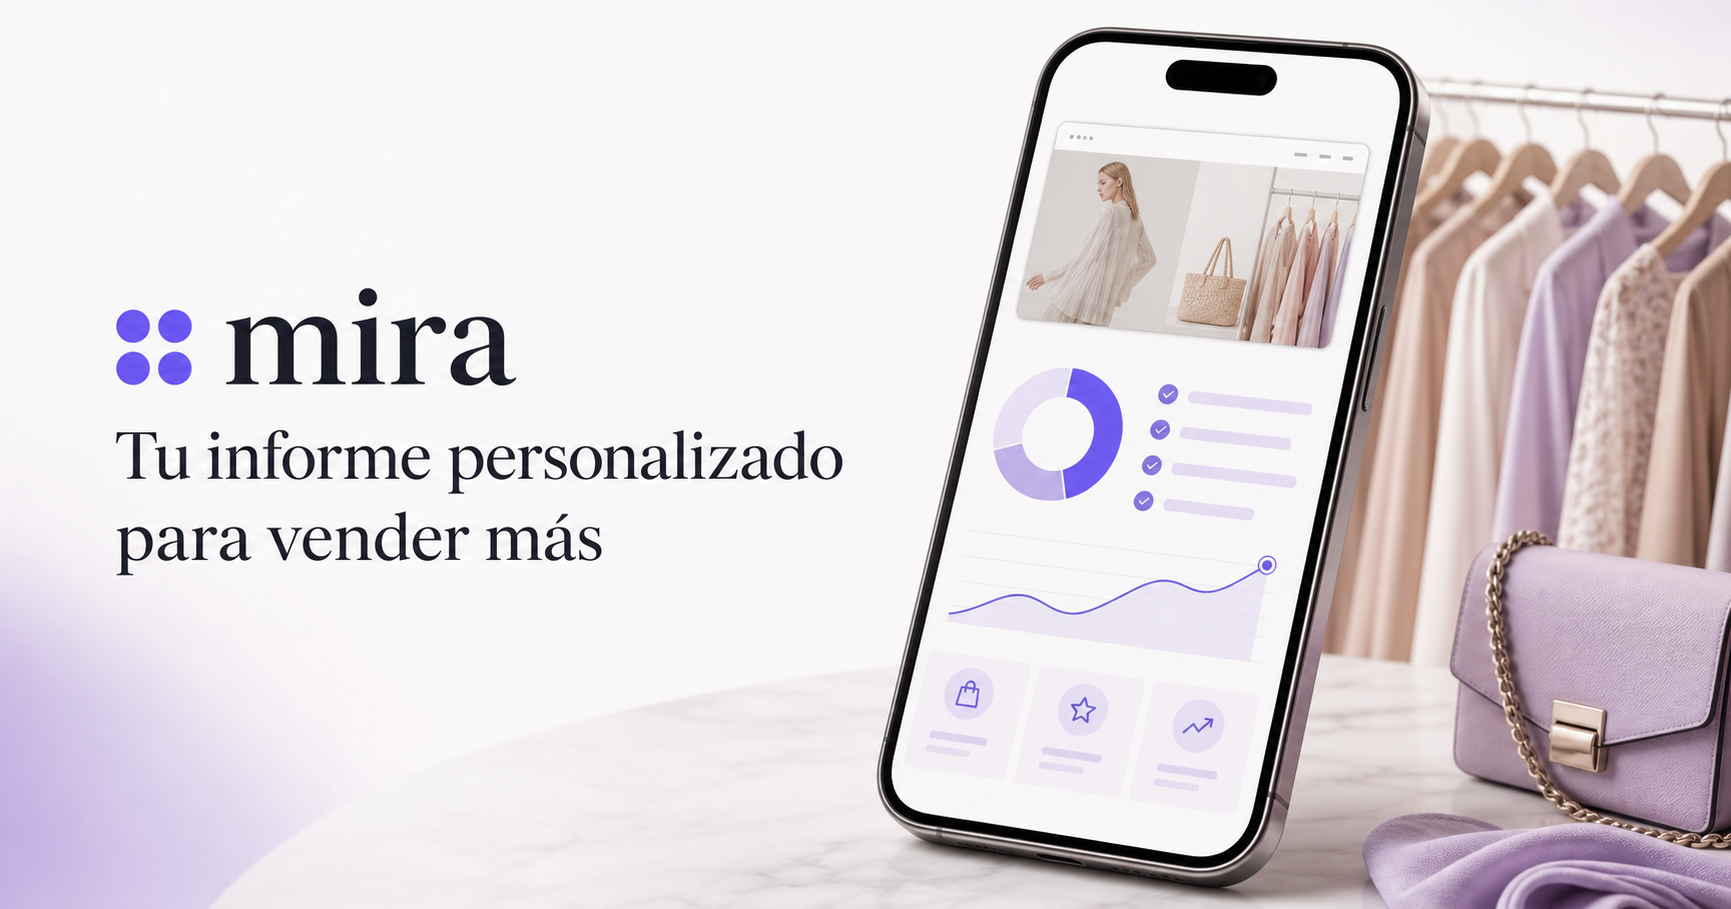
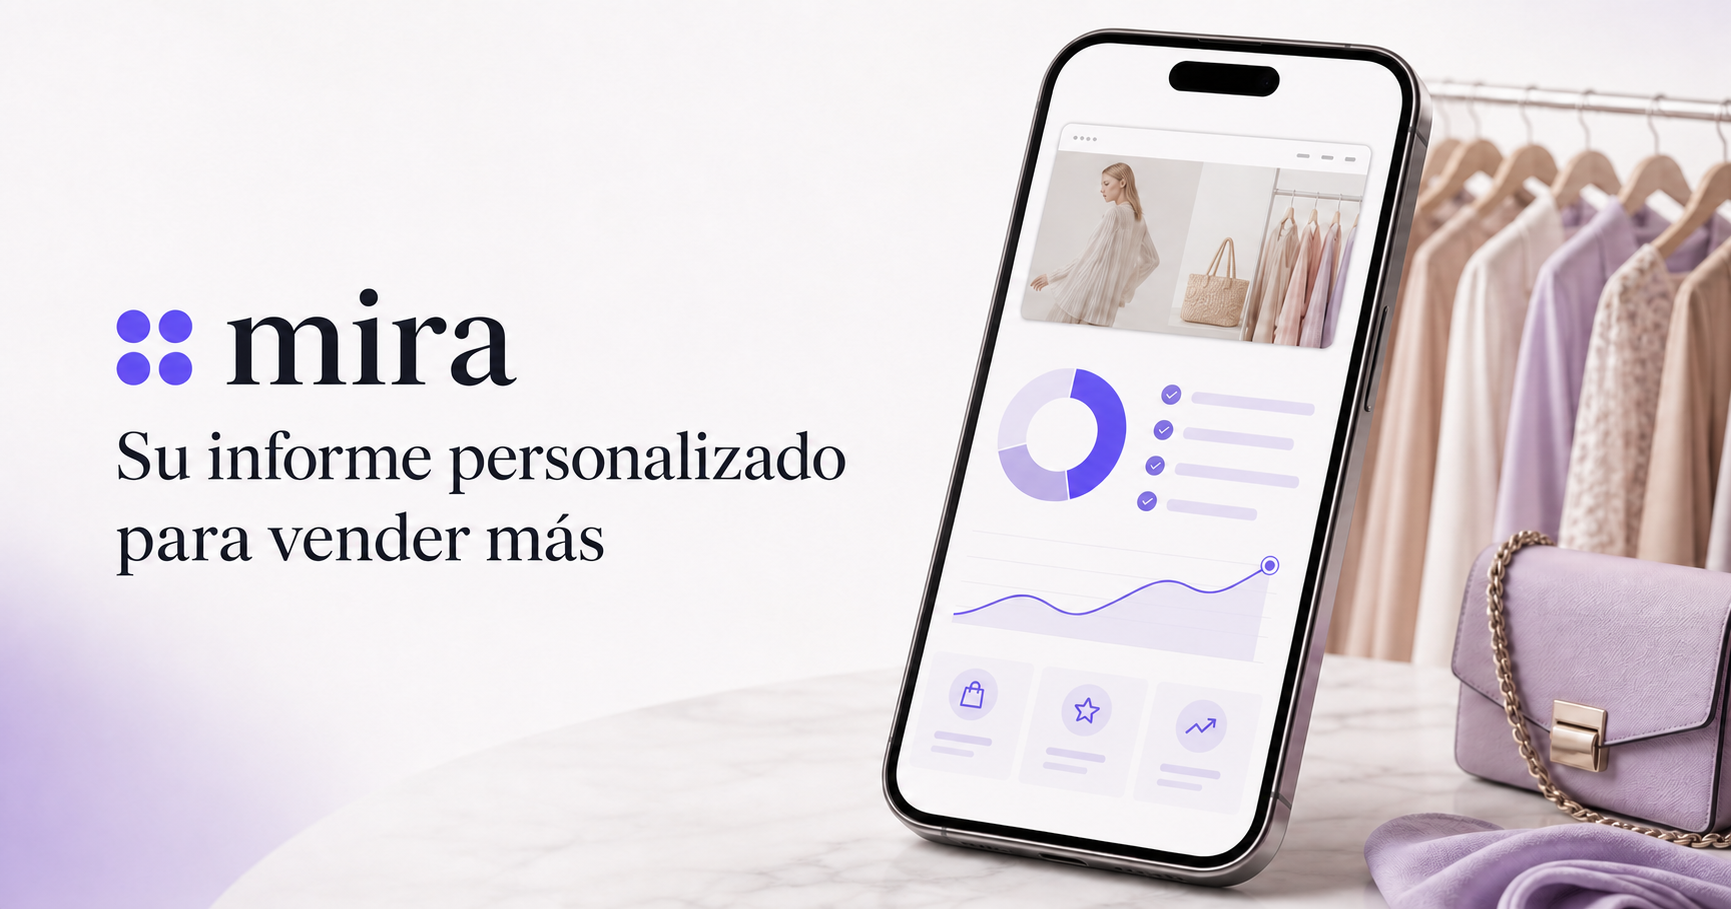
Usa tratamiento formal en la vista previa de Mira

diff --git a/packages/web/index.html b/packages/web/index.html
@@ -3,17 +3,17 @@
   <head>
     <meta charset="UTF-8" />
     <meta name="viewport" content="width=device-width, initial-scale=1.0" />
-    <title>Mira · Informe personalizado para vender más</title>
+    <title>Mira · Su informe personalizado para vender más</title>
     <meta
       name="description"
-      content="Hemos analizado tu web y preparado mejoras concretas para atraer más clientes y vender más."
+      content="Hemos analizado su web y preparado mejoras concretas para atraer más clientes y vender más."
     />
     <meta property="og:type" content="website" />
     <meta property="og:site_name" content="Mira" />
-    <meta property="og:title" content="Mira · Tu informe personalizado para vender más" />
+    <meta property="og:title" content="Mira · Su informe personalizado para vender más" />
     <meta
       property="og:description"
-      content="Descubre las mejoras que hemos preparado para que más personas encuentren tu negocio y terminen comprando."
+      content="Descubra las mejoras que hemos preparado para que más personas encuentren su negocio y terminen comprando."
     />
     <meta property="og:url" content="https://www.miraia.space/" />
     <meta property="og:image" content="https://www.miraia.space/mira-informe-preview.png" />
@@ -21,12 +21,12 @@
     <meta property="og:image:type" content="image/png" />
     <meta property="og:image:width" content="1732" />
     <meta property="og:image:height" content="909" />
-    <meta property="og:image:alt" content="Mira · Tu informe personalizado para vender más" />
+    <meta property="og:image:alt" content="Mira · Su informe personalizado para vender más" />
     <meta name="twitter:card" content="summary_large_image" />
-    <meta name="twitter:title" content="Mira · Tu informe personalizado para vender más" />
+    <meta name="twitter:title" content="Mira · Su informe personalizado para vender más" />
     <meta
       name="twitter:description"
-      content="Mejoras concretas para que tu web atraiga más clientes y convierta más visitas en ventas."
+      content="Mejoras concretas para que su web atraiga más clientes y convierta más visitas en ventas."
     />
     <meta name="twitter:image" content="https://www.miraia.space/mira-informe-preview.png" />
   </head>
